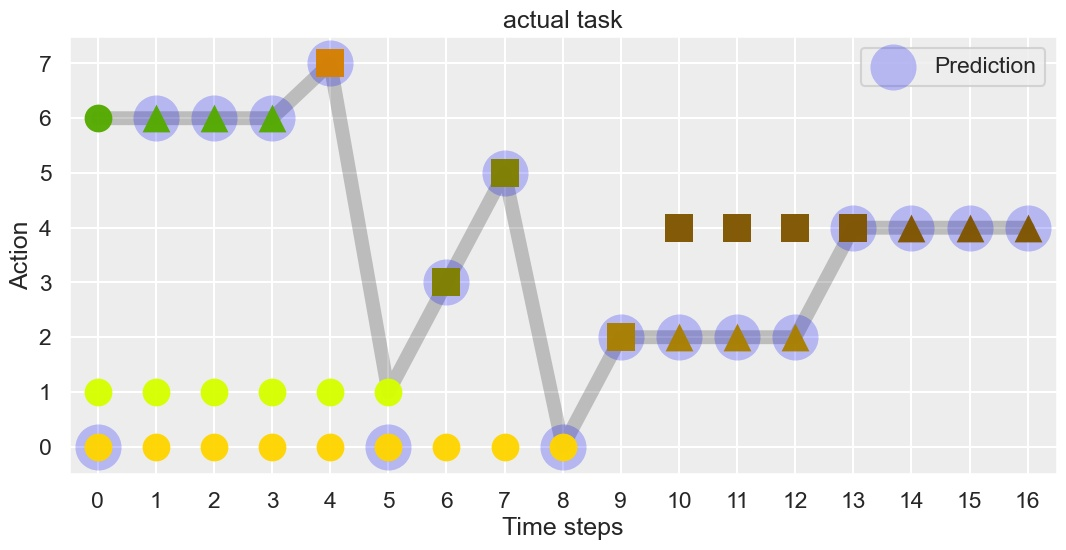
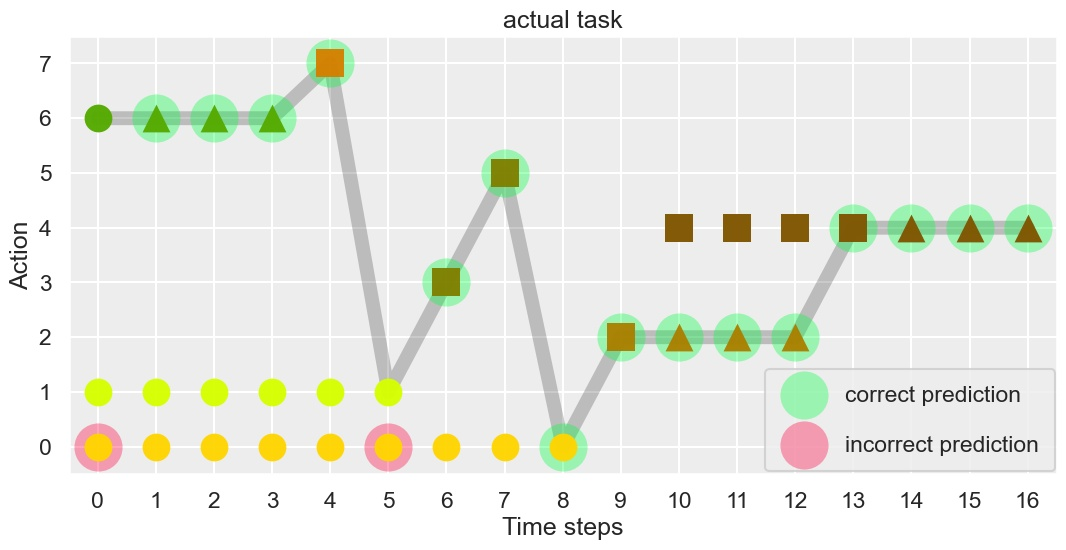
heatmap visualization

diff --git a/src/visualize.py b/src/visualize.py
@@ -4,7 +4,7 @@ from matplotlib import pyplot as plt
 import matplotlib.lines as mlines
 
 
-def visualize_rel_actions(task, demo, idx, prefix, predictions=None, ):
+def visualize_rel_actions(task, demo, idx, prefix, predictions=None, user_demo=None):
 
     features, states, transition_function = task.features, task.states, task.transition
     n_actions, n_steps = len(task.actions), len(demo)
@@ -31,15 +31,26 @@ def visualize_rel_actions(task, demo, idx, prefix, predictions=None, ):
     plt.plot(range(len(demo)), demo, "k", zorder=1, alpha=0.23, linewidth=10)
     feat_order = 2
 
+    incorrect_scat = []
     # plot the features for each action
     for step, take_action in enumerate(demo):
 
         # plot predictions
         if predictions:
             pred_a = list(set(predictions[step]))
-            scat = plt.scatter([step] * len(pred_a), pred_a, s=1100, facecolor=(0, 0, 1, 0.23), label="Prediction",
+            truth = user_demo[step]
+            if pred_a[0] == truth:
+                pred_color = (0, 1, 0.25, 0.35)
+                pred_label = "correct prediction"
+            else:
+                pred_color = (1, 0, 0.25, 0.35)
+                pred_label = "incorrect prediction"
+            scat = plt.scatter([step] * len(pred_a), pred_a, s=1200, facecolor=pred_color, label=pred_label,
                                edgecolors=(0, 0, 0.1, 0.23), marker="o", zorder=2, linewidth=0.0)
-            plt.legend(handles=[scat])
+
+            if pred_label == "incorrect prediction":
+                incorrect_scat.append(scat)
+            # plt.legend(handles=[scat], loc=4)
             feat_order = 3
 
         candidates = set()
@@ -84,6 +95,7 @@ def visualize_rel_actions(task, demo, idx, prefix, predictions=None, ):
     plt.ylim(-0.5, n_actions - 0.5)
     plt.xticks(range(n_steps))
     plt.gcf().subplots_adjust(bottom=0.15)
+    plt.legend(handles=[scat, incorrect_scat[0]], loc=4, labelspacing=1.3, borderpad=0.7, bbox_to_anchor=(1.01, -0.02))
 
     # plt.show()
     plt.savefig("visualizations/"+prefix+"_user" + str(idx) + "_predictions.jpg", bbox_inches='tight')
@@ -167,24 +179,58 @@ def visualize_rel_candidates(task, demo, idx, prefix):
     return
 
 
-# # Plot heatmap
-# sns.set(style="white", context="talk")
-# fig = plt.figure(figsize=(2.7, 2.7))
-# x = np.linspace(0.0, 1.0, 10)
-# y = np.linspace(0.0, 1.0, 10)
-# c = [[x_val, y_val, 0.0] for y_val in y for x_val in x]
-# x, y = np.meshgrid(x, y)
-# plt.axis('equal')
-# plt.xticks([0, 1])
-# plt.yticks([0, 1])
-# plt.xlabel('Physical Effort')
-# plt.ylabel('Mental Effort')
-# plt.scatter(x, y, s=200, c=c, marker='s', linewidth=0.0, alpha=0.97)
-# plt.gcf().subplots_adjust(bottom=0.25)
-# plt.gcf().subplots_adjust(left=0.25)
-# # plt.savefig("visualizations/heatmap.jpg")
-# # plt.show()
-#
+# Plot heatmap
+
+fea = [[1.1, 1.1],
+       [1.1, 1.1],
+       [2. , 2. ],
+       [2. , 2. ],
+       [6. , 3. ],
+       [6. , 3. ],
+       [6.9, 4. ],
+       [3. , 2. ]]
+fea = np.array(fea)/np.max(fea, axis=0)
+ts = ['0', '1', '2', '3', '4', '5', '6', '7']
+fea_lst = list(fea)
+
+strs = []
+fea_pts = []
+for idx, act in enumerate(fea_lst):
+    act = list(act)
+    if act in fea_pts:
+        pidx = fea_pts.index(act)
+        strs[pidx] = strs[pidx] + "," + str(idx)
+    else:
+        fea_pts.append(act)
+        strs.append(str(idx))
+fea_pts = np.array(fea_pts)
+
+sns.set(style="white", context="talk")
+fig = plt.figure(figsize=(2.7, 2.7))
+x = np.linspace(0.0, 1.0, 10)
+y = np.linspace(0.0, 1.0, 10)
+c = [[x_val, y_val, 0.0] for y_val in y for x_val in x]
+x, y = np.meshgrid(x, y)
+plt.axis('equal')
+plt.xticks([0, 1])
+plt.yticks([0, 1])
+plt.xlabel('Physical Effort')
+plt.ylabel('Mental Effort')
+plt.scatter(x, y, s=200, c=c, marker='s', linewidth=0.0, alpha=0.97)
+plt.scatter(fea[:, 0], fea[:, 1], s=80, c='k', marker='o', linewidth=0.0, alpha=0.79)
+for idx, s in enumerate(fea_pts):
+    if len(strs[idx]) > 1:
+        x_offset = -0.11
+        y_offset = 0.07
+    else:
+        x_offset = 0.06
+        y_offset = -0.02
+    plt.text(fea_pts[idx, 0]+x_offset, fea_pts[idx, 1]+y_offset, strs[idx], c='k')
+plt.gcf().subplots_adjust(bottom=0.25)
+plt.gcf().subplots_adjust(left=0.25)
+plt.savefig("visualizations/heatmap_user9_complex.jpg")
+# plt.show()
+
 # # plot legend
 # fig = plt.figure(figsize=(2.7, 2.7))
 # no = mlines.Line2D([], [], color='k', marker='o', linestyle='None',
@@ -200,10 +246,10 @@ def visualize_rel_candidates(task, demo, idx, prefix):
 # # plt.savefig("visualizations/legend.jpg")
 # # plt.show()
 
-# plot legend
-fig = plt.figure()
-proposed = mlines.Line2D([], [], markerfacecolor='b', marker='o', linestyle='None', markeredgecolor=(0, 0, 0.1, 0.23),
-                         markersize=15, alpha=0.23, label='Prediction', linewidth=0)
-plt.legend(handles=[proposed], loc="center", fontsize=18)
-plt.axis("off")
-plt.savefig("visualizations/legend2.jpg")
+# # plot legend
+# fig = plt.figure()
+# proposed = mlines.Line2D([], [], markerfacecolor='b', marker='o', linestyle='None', markeredgecolor=(0, 0, 0.1, 0.23),
+#                          markersize=15, alpha=0.23, label='Prediction', linewidth=0)
+# plt.legend(handles=[proposed], loc="center", fontsize=18)
+# plt.axis("off")
+# plt.savefig("visualizations/legend2.jpg")

diff --git a/src/experiments.py b/src/experiments.py
@@ -58,7 +58,7 @@ def load_features(data, feature_idx, action_idx):
 
 
 # user ratings for features
-canonical_q, complex_q = ["Q7_", "Q8_"], ["Q14_", "Q15_"]  # ["Q6_", "Q7_", "Q8_"], ["Q13_", "Q14_", "Q15_"]
+canonical_q, complex_q = ["Q7_", "Q8_"], ["Q14_", "Q15_"]
 canonical_features = load_features(ratings_df, canonical_q, [1, 3, 5, 2, 4, 6])
 complex_features = load_features(ratings_df, complex_q, [1, 3, 7, 8, 2, 4, 5, 6])
 
@@ -85,7 +85,7 @@ run_random_baseline = False
 match_scores, predict_scores, random_scores = [], [], []
 
 # loop over all users
-for i in range(11):
+for i in [9, 10]:
 
     print("=======================")
     print("User:", i)
@@ -167,7 +167,7 @@ for i in range(11):
         predict_scores.append(predict_score)
 
         if visualize:
-            visualize_rel_actions(X, complex_user_demo[0], i, "actual", predict_sequence)
+            visualize_rel_actions(X, complex_user_demo[0], i, "actual", predict_sequence, complex_user_demo[0])
 
     # -------------------------------- Training: Learn weights from complex demo ------------------------------------ #
 
